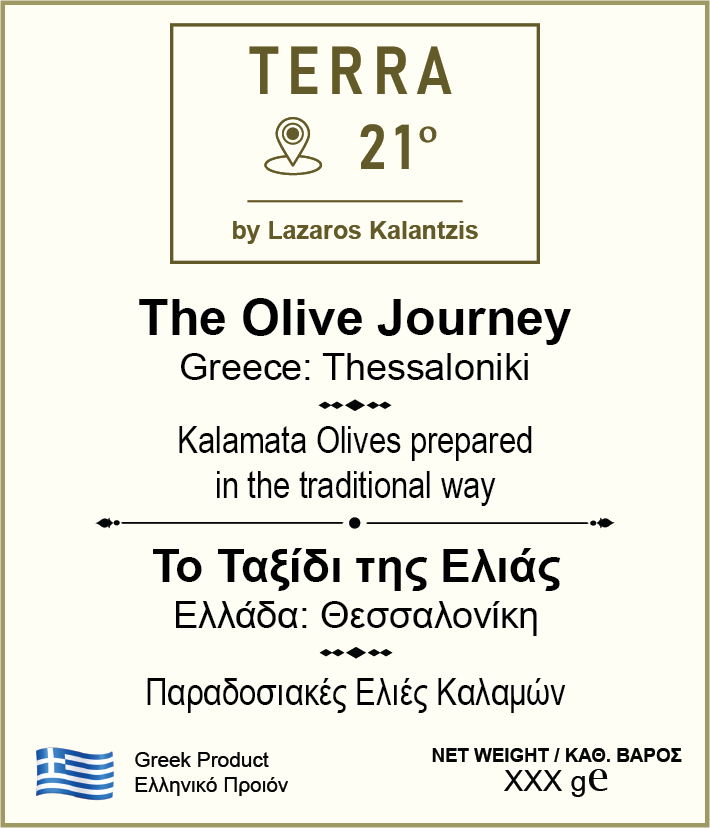
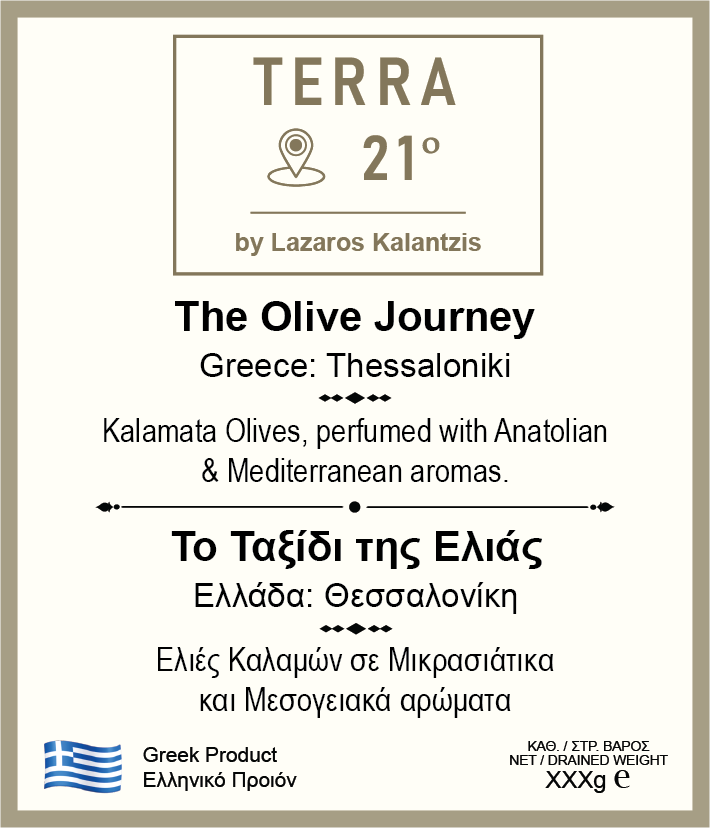
add tastes

Changed region(s): [[0.0, 0.0, 1.0, 1.0]]

diff --git a/tastes-gr.html b/tastes-gr.html
@@ -122,8 +122,27 @@
                         <h5 class="card-title">Συνταγή Παραδοσιακή</h5>
                         <p class="card-text">Μια συνταγή από τον Αστακό, το τόπο που μεγαλώσαμε όπου η προετοιμασία της
                             Ελιάς έχει ένα και μόνο σκοπό: να κρατήσει όλα τα φυσικά χαρακτηριστικά της και να αναδείξει
-                            το
-                            ιδιαίτερο γευστικό προφίλ της. </p>
+                            το ιδιαίτερο γευστικό προφίλ της. </p>
+                    </div>
+                </div>
+                <div class="card col-md-4">
+                    <img src="./images/product_kalamata.png" class="card-img-top" alt="Kalamata Taste">
+                    <div class="card-body">
+                        <h5 class="card-title"></h5>
+                        <p class="card-text">Η παραδοσιακή συνταγή της Καλαμάτας όπου η προετοιμασία της Ελιάς γίνεται
+                            αργά σε αρωματικό ξίδι. Μια μέθοδος που βοηθά την ελιά να αναδείξει το ιδιαίτερο γευστικό
+                            προφίλ της.
+                        </p>
+                    </div>
+                </div>
+                <div class="card col-md-4">
+                    <img src="./images/product_thessaloniki.png" class="card-img-top" alt="Thessaloniki Taste">
+                    <div class="card-body">
+                        <h5 class="card-title"></h5>
+                        <p class="card-text">Μια συνταγή που συνδυάζει δυο μεγάλες γαστρονομικές σχολές, της Μικράς
+                            Ασίας με τα αρώματα του μπούκοβου και του κύμινου με τη Μεσογειακή σχολή και τα αρώματα της
+                            ρίγανης και του σκόρδου.
+                        </p>
                     </div>
                 </div>
                 <div class="card col-md-4">
@@ -152,14 +171,6 @@
                 </div>
                 <div class="card col-md-4">
                     <img src="./images/product_athens.png" class="card-img-top" alt="Athens Taste">
-                    <div class="card-body">
-                        <h5 class="card-title"></h5>
-                        <p class="card-text">
-                        </p>
-                    </div>
-                </div>
-                <div class="card col-md-4">
-                    <img src="./images/product_thessaloniki.png" class="card-img-top" alt="Thessaloniki Taste">
                     <div class="card-body">
                         <h5 class="card-title"></h5>
                         <p class="card-text">

diff --git a/tastes.html b/tastes.html
@@ -129,6 +129,26 @@
                     </div>
                 </div>
                 <div class="card col-md-4">
+                    <img src="./images/product_kalamata.png" class="card-img-top" alt="Kalamata Taste">
+                    <div class="card-body">
+                        <h5 class="card-title"></h5>
+                        <p class="card-text">A culinary heritage given to the World by Kalamata. We keep our olives in
+                            perfumed vinegar for long time, the result is a firm texture and delicate but long natural
+                            aftertaste.
+                        </p>
+                    </div>
+                </div>
+                <div class="card col-md-4">
+                    <img src="./images/product_thessaloniki.png" class="card-img-top" alt="Thessaloniki Taste">
+                    <div class="card-body">
+                        <h5 class="card-title"></h5>
+                        <p class="card-text">A recipe that brings together two gastronomic schools. The Minor Asia one
+                            defined by the aromas of crushed chillies and cumin and the Mediterranean culinary school
+                            defined by oregano and garlic.
+                        </p>
+                    </div>
+                </div>
+                <div class="card col-md-4">
                     <img src="./images/product_santorini.png" class="card-img-top" alt="Santorini Taste">
                     <div class="card-body">
                         <h5 class="card-title"></h5>
